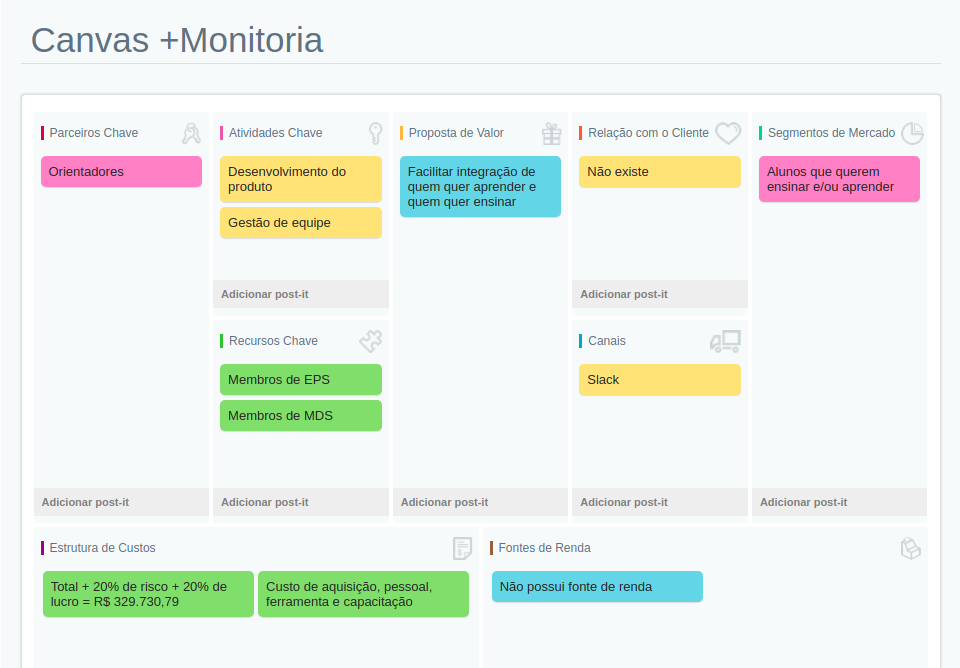
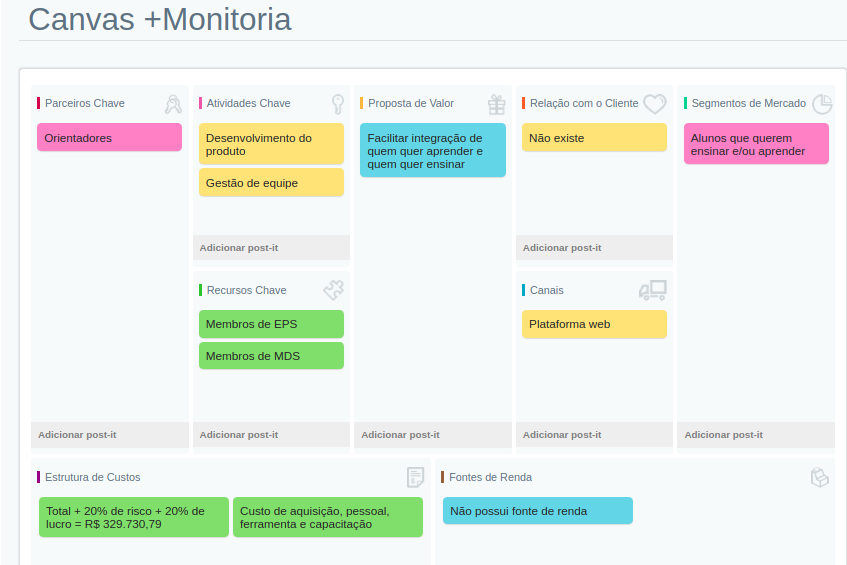
[REFACTOR] Refatorado EAP e canvas.

diff --git a/website/siteConfig.js b/website/siteConfig.js
@@ -37,7 +37,7 @@ const siteConfig = {
   // For no header links in the top nav bar -> headerLinks: [],
   headerLinks: [
     {search: true},
-    {doc: 'doc-richpicture', label: 'Requisitos'},
+    {doc: 'doc-backlog', label: 'Requisitos'},
     {doc: 'doc-tap', label: 'Docs'},
     {doc: 'sprint0-planning', label: 'Sprints'},
   //  {page: 'help', label: 'Help'},

diff --git a/docs/doc-tap.md b/docs/doc-tap.md
@@ -115,11 +115,14 @@ EAP ou estrutura analítica de projeto é uma forma visual de representar as fas
 
 <br>
 
-![EAP](assets/EAP.png)
+### Versão 2.0
+![EAP](assets/EAP_versao_2.0.png)
 
 <br>
 
-Imagem ampliada está disponivel [aqui](https://fga-eps-mds.github.io/2019.1-MaisMonitoria/docs/assets/EAP.png).
+Imagem ampliada está disponivel [aqui](https://uploaddeimagens.com.br/images/002/080/087/full/EAP_versao_2.0.png?1556758805).
+<br>
+[Versão 1.0](https://fga-eps-mds.github.io/2019.1-MaisMonitoria/docs/assets/EAP.png).
 
 ## 10. Canvas
 
